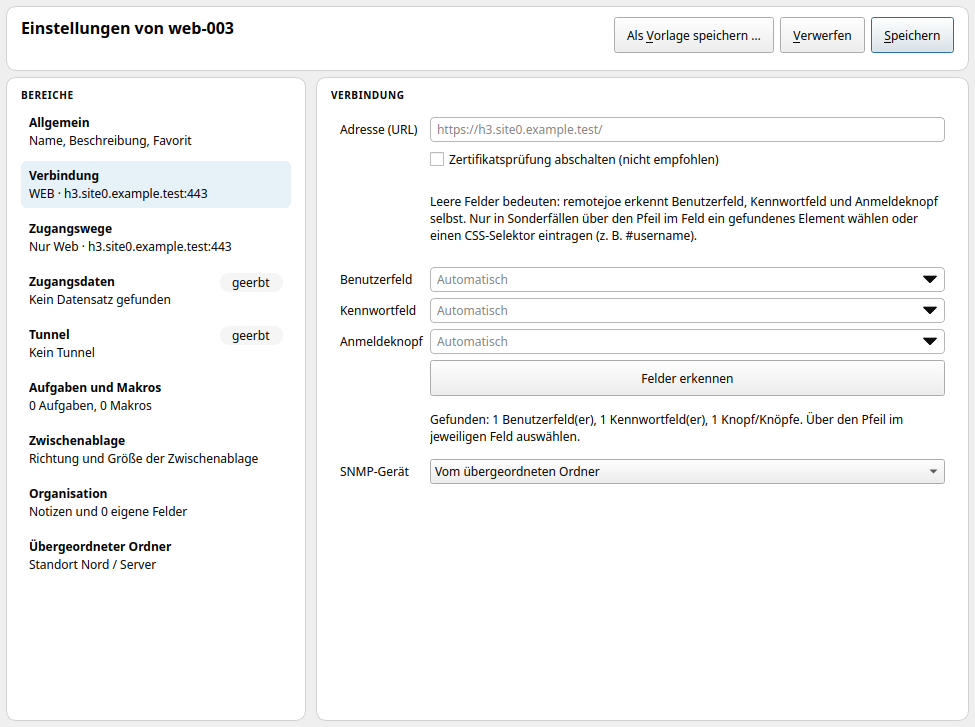
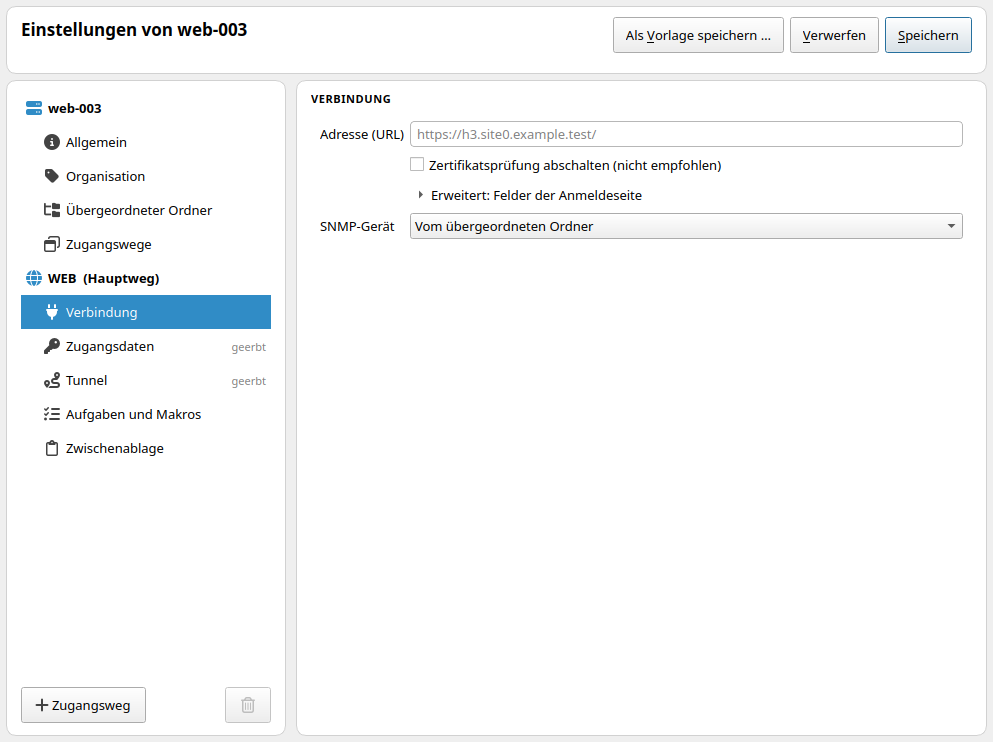
Dokumentation und Bildschirmfotos zu 0.1.69

diff --git a/docs/EINSTELLUNGEN.md b/docs/EINSTELLUNGEN.md
@@ -1,0 +1,171 @@
+# Einstellungen
+
+**Extras → Einstellungen** öffnet die Einstellungen als Tab. Sie gelten für das ganze Programm; Änderungen wirken
+sofort und werden gespeichert. Links stehen die Bereiche in Gruppen, rechts die Seite des gewählten Bereichs.
+Einstellungen einzelner Ziele und Ordner (Verbindung, Zugangsdaten, Inventar, Tunnel …) stehen nicht hier, sondern
+in den **Eigenschaften** des Ziels bzw. Ordners (F4).
+
+Übersicht:
+
+| Gruppe | Bereich | Worum es geht |
+|---|---|---|
+| Sicherheit | [Sperre und Zwischenablage](#sperre-und-zwischenablage) | Automatisch sperren, kopierte Kennwörter löschen, Schlüsselfehler |
+| | [Tastatur](#tastatur) | Tastenfolgen, Tastenkürzel in Sitzungen, Tastatur in RDP |
+| | [Cipher-Suites](#cipher-suites) | Ältere SSH-Verfahren für Altgeräte |
+| Darstellung | [Darstellung](#darstellung) | Farbschema, Baum, Zielbereich, Suche im Zielbaum, Symbolfarben |
+| | [Terminal](#terminal) | Schrift, Farben und Rücklauf des SSH-Terminals |
+| Daten | [Sicherung](#sicherung) | Sicherungen der Schlüsseldatenbank |
+| | [Web-Zwischenspeicher](#web-zwischenspeicher) | Platz der Web-Ziele |
+| Claude | [Claude-Anbindung (MCP)](#claude-anbindung-mcp) | Abfragen aus Claude Desktop |
+| Updates | [Programm-Updates](#programm-updates) | Nach Updates suchen, Proxy, Installation |
+
+In remotejoe advanced kommen weitere Bereiche hinzu (Lizenz, Erweiterungen und die Bereiche der Erweiterungen).
+
+---
+
+## Sicherheit
+
+### Sperre und Zwischenablage
+
+| Einstellung | Vorgabe | Wirkung |
+|---|---|---|
+| Sperre nach Leerlauf | Aus | Nach der eingestellten Zeit ohne Eingabe wird die Schlüsseldatenbank gesperrt; zum Weiterarbeiten fragt remotejoe das Hauptkennwort ab. Von Hand: **Datei → Sperren** (Strg+L). |
+| Sitzungen beim Sperren trennen | Aus | Ohne diese Option bleiben laufende Sitzungen bestehen, ihre Bilder sind verdeckt. |
+| Kennwort-Kopie löschen | 30 s | So lange bleibt ein kopiertes Kennwort in der Zwischenablage; 0 = nie löschen. |
+| Bei Schlüsselfehlern trotzdem fortfahren | Aus | Unbekannte oder geänderte Host-Schlüssel und Zertifikate werden ohne Rückfrage angenommen – nur für diese eine Verbindung, gespeichert wird nichts; jeder Fall erscheint rot in der Fußzeile. **Vorsicht:** Ein geänderter Schlüssel kann auf einen fremden Server dazwischen hindeuten. |
+
+### Tastatur
+
+| Einstellung | Vorgabe | Wirkung |
+|---|---|---|
+| Tastenkürzel an die Sitzung geben | An | Windows-Taste, Alt+Tab und Menütaste gehen an das Ziel, solange die Sitzung den Fokus hat. |
+| Strg+Umschalt+W | Nur außerhalb von Sitzungen | Schließt den aktiven Tab. „Nur außerhalb von Sitzungen“: In einer Sitzung geht die Tastenfolge an das Ziel. |
+| Strg+F | Nur außerhalb von Sitzungen | Springt in die Suche über dem Zielbaum. In Web-Sitzungen sucht Strg+F immer in der Seite. |
+| Tab wechseln (Tab nach links / rechts) | Strg+Umschalt+Bild↑ / Bild↓ | Wechselt zum Tab links bzw. rechts vom aktiven (mit Umlauf). Zum Belegen in das Feld klicken und die Tastenkombination drücken; leer = keine. Strg+Bild↑/↓ wechselt unabhängig davon immer. **Extras → Tastenkürzel …** öffnet diese Seite direkt. |
+| Belegung im administrativen Tastaturmodus | Deutsch | Gilt für RDP-Sitzungen, deren Ziel keine eigene Tastaturbelegung nennt; muss zur Belegung der Sitzung am Server passen. Hintergrund: [TASTATUR.md](TASTATUR.md). |
+| Administrativen Tastaturmodus abschalten nach | 10 Min. ohne Eingabe | Danach gilt wieder die Vorgabe (Zeichen als Unicode). |
+
+### Cipher-Suites
+
+Ältere SSH-Verfahren gelten als unsicher: Verbindungen damit lassen sich leichter mitlesen oder verfälschen. Nur für
+Altgeräte einschalten, die nichts anderes können – und vorher prüfen, ob für das Gerät neuere Firmware verfügbar ist.
+
+| Einstellung | Vorgabe | Wirkung |
+|---|---|---|
+| Ältere SSH-Verfahren zulassen | Aus | SHA-1-Schlüsselaustausch (Diffie-Hellman-Gruppe 14 und Gruppenaustausch), AES-CBC, HMAC-SHA1 und DSA-Schlüssel. Sie werden nur angeboten, wenn ein Gerät die aktuellen nicht kann, und stehen immer ganz hinten. |
+| Auch sehr alte Verfahren zulassen | Aus | 3DES und Diffie-Hellman-Gruppe 1; setzt die Stufe darüber voraus. |
+
+Die Option „Ältere Verfahren“ an einem Ziel bzw. Tunnel wirkt nur mit dieser Freigabe. Ohne sie meldet remotejoe bei
+Altgeräten „Schlüsselaustausch gescheitert“ und verweist auf diese Seite.
+
+---
+
+## Darstellung
+
+### Darstellung
+
+| Einstellung | Vorgabe | Wirkung |
+|---|---|---|
+| Modus | Automatisch nach System | Automatisch hell oder dunkel wie das System (je eine Palette für den hellen und den dunklen Modus) oder immer dieselbe Palette. Klick auf eine Kachel wählt die Palette. |
+| Blauen Rahmen um die Sitzung mit dem Tastaturfokus zeigen | An | Zeigt, welche Sitzung die Tastatur bekommt (vor allem beim Kacheln). |
+| Größe des Baums | Mittel | Zeilenhöhe, Symbole und Schrift des Zielbaums: klein, mittel, groß. |
+| Runde Fensterecken | An | Wirkt nach einem Neustart (unter Windows 11 rundet das System selbst). |
+| Favoriten oben im Zielbaum anzeigen | An | Ordner „Favoriten“ ganz oben im Baum. |
+| Zielbereich aufklappen nach / zuklappen nach | 300 ms / 500 ms | Gilt, wenn der Zielbereich nicht angeheftet ist (Stecknadel in der Kopfzeile „Ziele“): Er öffnet sich beim Verweilen über „Ziele“ und klappt nach dem Verlassen wieder ein. |
+| **Suche im Zielbaum:** Suchen ab | 4 Zeichen | Beim Tippen sucht remotejoe erst ab so vielen Zeichen; darunter steht unter dem Suchfeld, wie viele noch fehlen. Enter sucht immer sofort. |
+| **Suche im Zielbaum:** Suche starten | beim Tippen | „beim Tippen“ oder „erst mit Enter“. |
+| **Suche im Zielbaum:** Beim Tippen warten | 3 s | Pause nach dem letzten Tastendruck, bevor die Suche startet. |
+| Symbolfarben | Einheitlich | Einheitlich oder je Typ; mit „Eigene Farben“ je Art eine eigene Farbe. |
+
+Eigene Paletten: **Eigene Palette anlegen …** oder als JSON-Datei im Paletten-Ordner (Felder `name`, `dark` und die
+Farben `window`, `base`, `alternate`, `text`, `muted`, `highlight`, `highlight_text`, `button`, `link`, `warning`,
+`error`, `ok` als `#rrggbb`).
+
+### Terminal
+
+Schrift und Farben des SSH-Terminals; Änderungen gelten sofort für alle offenen und neuen Terminals. Auch über
+**Extras → Terminal …**.
+
+| Einstellung | Wirkung |
+|---|---|
+| Festbreitenschrift des Systems verwenden, Schriftart, Schriftgröße | Schrift des Terminals; Strg + Mausrad ändert die Größe direkt im Terminal. |
+| Farbschema, Vordergrund, Hintergrund, Cursor, Auswahl | Schema (z. B. Catppuccin) und einzelne Farben; „Auf Vorgabe zurücksetzen“. |
+| Rücklauf | Zeilen, die das Terminal zum Zurückblättern behält. |
+| Markierten Text sofort in die Zwischenablage kopieren | Wie unter Linux üblich. |
+| Vor dem Einfügen mehrerer Zeilen nachfragen | Zeilenumbrüche wirken wie die Eingabetaste – die Rückfrage schützt vor versehentlich ausgeführten Befehlen. |
+
+---
+
+## Daten
+
+### Sicherung
+
+| Einstellung | Vorgabe | Wirkung |
+|---|---|---|
+| KDBX nach jedem Speichern sichern | An | Gesichert wird die verschlüsselte Datei mit Zeitstempel im Namen (dazu der Index `.rjindex`); Kennwort und Schlüsseldatei bleiben dieselben. |
+| Ordner | neben der KDBX | Ort der Sicherungen. |
+| Neueste behalten | 10 | So viele der letzten Sicherungen bleiben. |
+| Dazu je Tag die erste | 7 Tage | Zusätzlich je Tag die erste Sicherung. |
+| Vor einem Update | 3 | Vor jedem Update entsteht eine eigene Sicherung „…-vor-update-<Version>-…“. |
+| Zusätzlich an einem zweiten Ort sichern | Aus | z. B. ein NAS (`\\nas\freigabe\remotejoe` bzw. `/mnt/nas/remotejoe`); ist er nicht erreichbar, wird trotzdem gespeichert. |
+
+**Jetzt sichern** sichert sofort. Eine Schlüsseldatei wird nicht mitgesichert – bitte getrennt aufbewahren, nicht neben
+den Sicherungen. Aufgeräumt werden nur Dateien nach dem Namensmuster der Sicherungen.
+
+### Web-Zwischenspeicher
+
+Web-Ziele speichern Teile der Seiten zwischen, damit sie schneller laden.
+
+| Einstellung | Vorgabe | Wirkung |
+|---|---|---|
+| Grenze je Ziel | 50 MB | Liegt der Zwischenspeicher eines Ziels darüber, wird er geleert. |
+| Aufbewahrung | 7 Tage | Wurde ein Ziel so lange nicht geöffnet, wird sein Zwischenspeicher geleert; Profile gelöschter Ziele werden nach dieser Zeit entfernt. |
+
+Die Seite zeigt den belegten Platz. **Zwischenspeicher jetzt aufräumen** leert sofort alle Zwischenspeicher. Anmeldungen
+auf Webseiten und angenommene Zertifikate bleiben immer erhalten. Aufgeräumt wird nach dem Entsperren.
+
+---
+
+## Claude-Anbindung (MCP)
+
+Ab Werk aus. Einrichtung, Werkzeuge und Datenschutz: [MCP.md](MCP.md).
+
+| Einstellung | Vorgabe | Wirkung |
+|---|---|---|
+| Claude-Anbindung einschalten | Aus | Claude Desktop kann remotejoe abfragen. |
+| IP- und MAC-Adressen ausblenden / Seriennummern ausblenden | Aus | Diese Angaben gehen dann nicht an Claude. |
+| Freigegebene Ordner | keine | Claude sieht nur Ziele in diesen Ordnern (mit Unterordnern); gilt je Schlüsseldatenbank. |
+| Anmeldeobjekte für Aktionen | keine | Aktionen (Verbinden, Inventar abfragen) nur bei Zielen, deren Zugangsdaten aus einem dieser Anmeldeobjekte stammen – z. B. ein Konto mit wenig Rechten eigens für Claude. Jede Aktion erlaubst du zusätzlich in remotejoe. |
+
+Zugangsdaten, Benutzernamen und Notizen gehen nie an Claude.
+
+---
+
+## Updates
+
+### Programm-Updates
+
+| Einstellung | Vorgabe | Wirkung |
+|---|---|---|
+| Beim Programmstart nach Updates suchen | Aus | Prüft im Hintergrund die Veröffentlichungen auf GitHub. |
+| In regelmäßigen Abständen nach Updates suchen | Aus | Alle n Stunden, Tage oder Wochen, solange remotejoe läuft. |
+| Proxy | Automatisch (Systemeinstellung) | Automatisch, kein Proxy oder manuell (`Rechner:Port`). |
+
+**Jetzt suchen** prüft sofort; **Herunterladen und installieren** lädt das Paket, prüft Signatur und Prüfsumme und
+installiert. Der Neustart ist freiwillig; bis dahin läuft die bisherige Fassung weiter. Das Protokoll der Seite lässt sich
+kopieren. Ablauf und Hintergründe: [UPDATE.md](UPDATE.md).
+
+Windows: Läuft gerade eine andere Installation (z. B. Windows Update), wartet remotejoe und installiert danach von selbst
+(höchstens 10 Minuten, „Nicht warten“ bricht ab). Jede Installation schreibt ein Protokoll in den Datenordner
+(`update\`, die letzten 5); eine Fehlermeldung nennt die Datei.
+
+---
+
+## Weitere Einstellungen außerhalb dieses Tabs
+
+- **Aufklappzustand als Start speichern / Startzustand zurücksetzen** (Rechtsklick in den Zielbaum): legt fest, welche
+  Ordner beim Programmstart offen sind (je Schlüsseldatenbank). **Alle zuklappen** (Knopf in der Kopfzeile „Ziele“)
+  klappt den ganzen Baum auf einmal zu.
+- **Hilfe → Neuigkeiten**: die Releasenotes; nach einem Update öffnen sie sich einmal von selbst.
+- Startparameter `--ohne-erweiterungen`: startet remotejoe ohne Erweiterungen (nur remotejoe advanced; Notausgang, falls
+  eine Erweiterung den Start verhindert).

diff --git a/README.md b/README.md
@@ -35,9 +35,11 @@ remotejoe bündelt alle Fernzugänge in einem schlanken, schnellen Programm:
 - [`docs/BAUEN.md`](docs/BAUEN.md) – remotejoe unter Ubuntu und Windows bauen
 - [`docs/DATENSCHUTZ.md`](docs/DATENSCHUTZ.md) – Datenschutz und Netzwerkzugriffe
 - [`docs/MCP.md`](docs/MCP.md) – Claude-Anbindung (MCP): remotejoe als Werkzeug für Claude Desktop
+- [`docs/EINSTELLUNGEN.md`](docs/EINSTELLUNGEN.md) – alle Einstellungen (Extras → Einstellungen) mit Vorgaben und Wirkung
 - [`docs/TASTATUR.md`](docs/TASTATUR.md) – Tastatur in RDP-Sitzungen, administrativer Tastaturmodus für Fenster „als Administrator“
 - [`docs/ZIELE-EINRICHTEN.md`](docs/ZIELE-EINRICHTEN.md) – Windows-Ziele für RDP und PowerShell-Remoting einrichten (mit Skripten unter [`tools/ziel-einrichten/`](tools/ziel-einrichten/))
 - [`THIRD_PARTY.md`](THIRD_PARTY.md) – verwendete Bibliotheken Dritter mit Lizenzen
+- [`SECURITY.md`](SECURITY.md) – Sicherheitslücken vertraulich melden
 
 > [!WARNING]
 > **Privates Hobbyprojekt – nicht gepflegt / unmaintained.**
@@ -218,7 +220,7 @@ neu aufklappen.
   gemeldet, ein geänderter nie (außer mit „Bei Schlüsselfehlern trotzdem fortfahren“, siehe Einstellungen). Gäste von Proxmox und Hyper-V zeigen ihr Inventar vom Hypervisor. Das Inventar liegt
   als Datei im Datenordner (`inventar/`), nicht in der Schlüsseldatenbank.
   Ob sich das Inventar an einem Ziel anmelden darf, ist je Ziel bzw. Ordner einstellbar („Abfragen erlaubt“ in der
-  Übersicht, Einstellungen → Allgemein → Inventar). Web-Ziele sind ohne eigene Festlegung aus; ein „an“ am Ordner
+  Übersicht, Eigenschaften → Allgemein → Inventar). Web-Ziele sind ohne eigene Festlegung aus; ein „an“ am Ordner
   schaltet sie nicht ein.
 - **Ordnerübersicht beim Einfachklick auf einen Ordner:** die Elemente direkt im Ordner als Tabelle mit Typ (Symbol wie
   im Baum), Name, Adresse und den Werten aus dem gespeicherten Inventar (Version, System, CPUs, Speicher, Laufzeit,
@@ -391,7 +393,12 @@ Verbindungsereignisse, keine Kennwörter, Eingaben oder Inhalte der Zwischenabla
    bleiben im Feld stehen.
    Baum per Tastatur: F2 umbenennen, Entf löschen, Strg+D duplizieren, Strg+Umschalt+M
    verschieben (auch Ziehen und Ablegen, Alt+↑/↓), Strg+B Favorit, Strg+Z rückgängig.
-   Über dem Baum lässt sich zwischen allen Zielen, Favoriten und eigenen Ansichten wählen.
+   Suche über dem Baum (Strg+F): öffnet nur die Ordner auf dem Weg zu Treffern; nach dem Leeren kommt der
+   Aufklappzustand von vorher zurück. Ab wie vielen Zeichen, beim Tippen oder erst mit Enter und die Wartezeit sind
+   einstellbar (Einstellungen → Darstellung → Suche im Zielbaum). **Alle zuklappen** (Knopf in der Kopfzeile „Ziele“)
+   klappt den ganzen Baum zu; Rechtsklick in den Baum → **Aufklappzustand als Start speichern** legt fest, was beim
+   Start offen ist. Rechtsklick auf einen Tab: abtrennen, Anordnung, **Tab schließen**, **Alle Tabs schließen**.
+   **Hilfe → Neuigkeiten** zeigt die Releasenotes.
 6. Rückfragen zu unbekannten Host-Schlüsseln und Zertifikaten erscheinen als Leiste im Tab der
    Sitzung mit Schlüsseltyp und vollständigem Fingerabdruck; Standard ist „Ablehnen“, ohne
    Antwort wird nach 120 s abgelehnt. Ein geänderter Schlüssel wird deutlich gewarnt (alter und
@@ -404,8 +411,7 @@ Verbindungsereignisse, keine Kennwörter, Eingaben oder Inhalte der Zwischenabla
    **Datei → Sperren** (Strg+L) verwirft Schlüssel und Kennwörter im Speicher; laufende
    Sitzungen bleiben bestehen, ihre Bilder sind verdeckt. **Extras → Einstellungen**, Bereich „Sperre und
    Zwischenablage“, schaltet das automatische Sperren ein und legt fest, wann ein kopiertes Kennwort aus der
-   Zwischenablage verschwindet; der Bereich **SNMP-Geräte** verwaltet SNMP-Zugänge (v3 mit getrennten
-   Kennwörtern für Authentisierung und Verschlüsselung).
+   Zwischenablage verschwindet. Alle Einstellungen im Überblick: [docs/EINSTELLUNGEN.md](docs/EINSTELLUNGEN.md).
 
 9. **Fußzeile:** zeigt für die vordere Sitzung den Verbindungstyp, das Ziel, seit wann und als wer
    Sie verbunden sind.

diff --git a/SECURITY.md b/SECURITY.md
@@ -1,0 +1,32 @@
+# Sicherheit
+
+## Sicherheitslücken melden
+
+Bitte melde Sicherheitslücken **nicht** als öffentliches Issue, sondern vertraulich über GitHub:
+im Repository unter **Security → Report a vulnerability**
+(<https://github.com/joeMJ/remotejoe/security/advisories/new>).
+
+Hilfreich sind:
+
+- die Fassung von remotejoe (Hilfe → Über remotejoe) und das Betriebssystem,
+- eine kurze Beschreibung der Lücke und ihrer Auswirkung,
+- Schritte zum Nachstellen, wenn möglich mit einem Beispiel ohne echte Zugangsdaten.
+
+Bitte keine Kennwörter, Schlüsseldatenbanken oder Daten echter Systeme mitschicken.
+
+## Unterstützte Fassungen
+
+Sicherheitskorrekturen gibt es nur für die jeweils neueste veröffentlichte Fassung. Ältere Fassungen bitte zuerst
+aktualisieren (Hilfe → Nach Updates suchen).
+
+## Ablauf
+
+Meldungen werden vertraulich bearbeitet. Feste Reaktionszeiten und eine Belohnung (Bug-Bounty) gibt es nicht. Ist eine
+Lücke behoben, nennen die Releasenotes der Fassung die Korrektur.
+
+---
+
+## Reporting a vulnerability (English)
+
+Please do **not** open a public issue. Report vulnerabilities privately via GitHub:
+**Security → Report a vulnerability** in this repository. Only the latest release receives security fixes.
